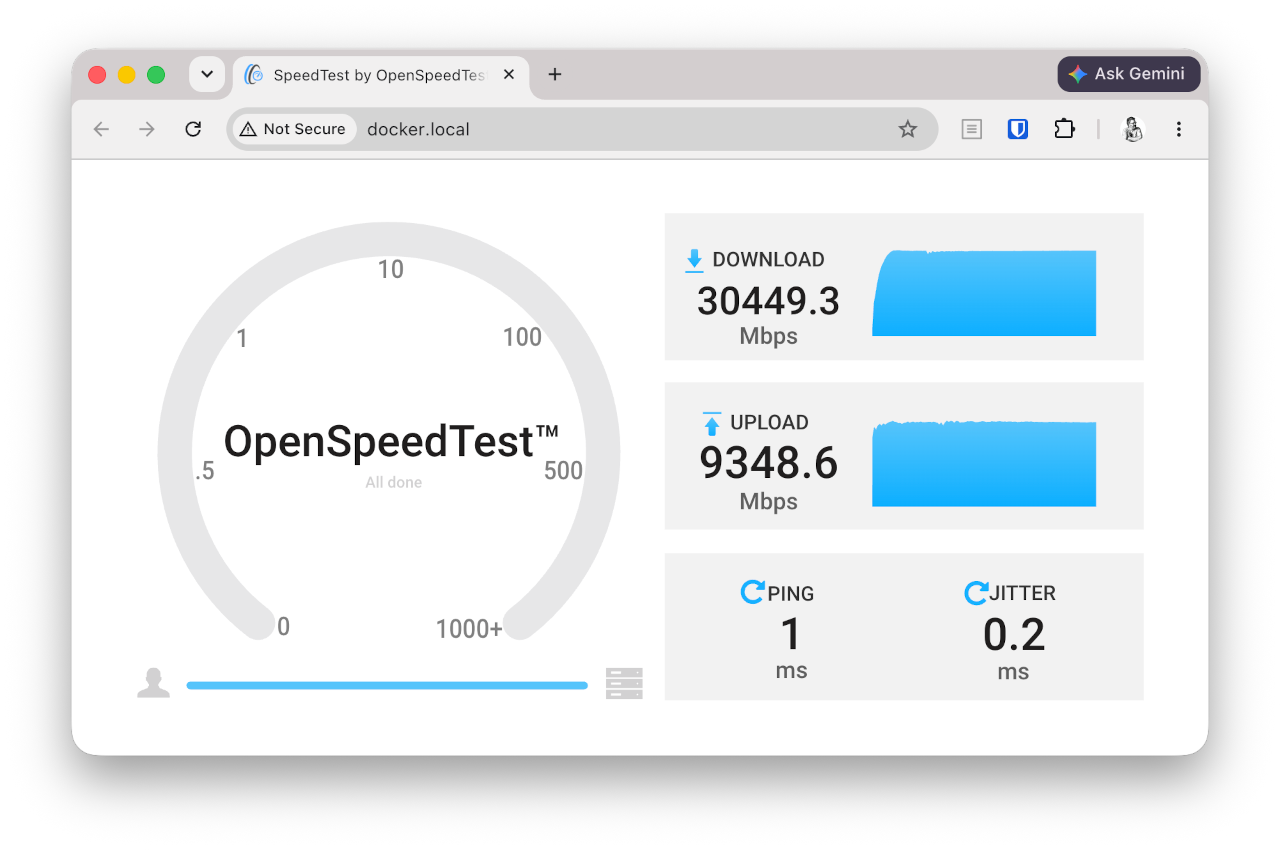
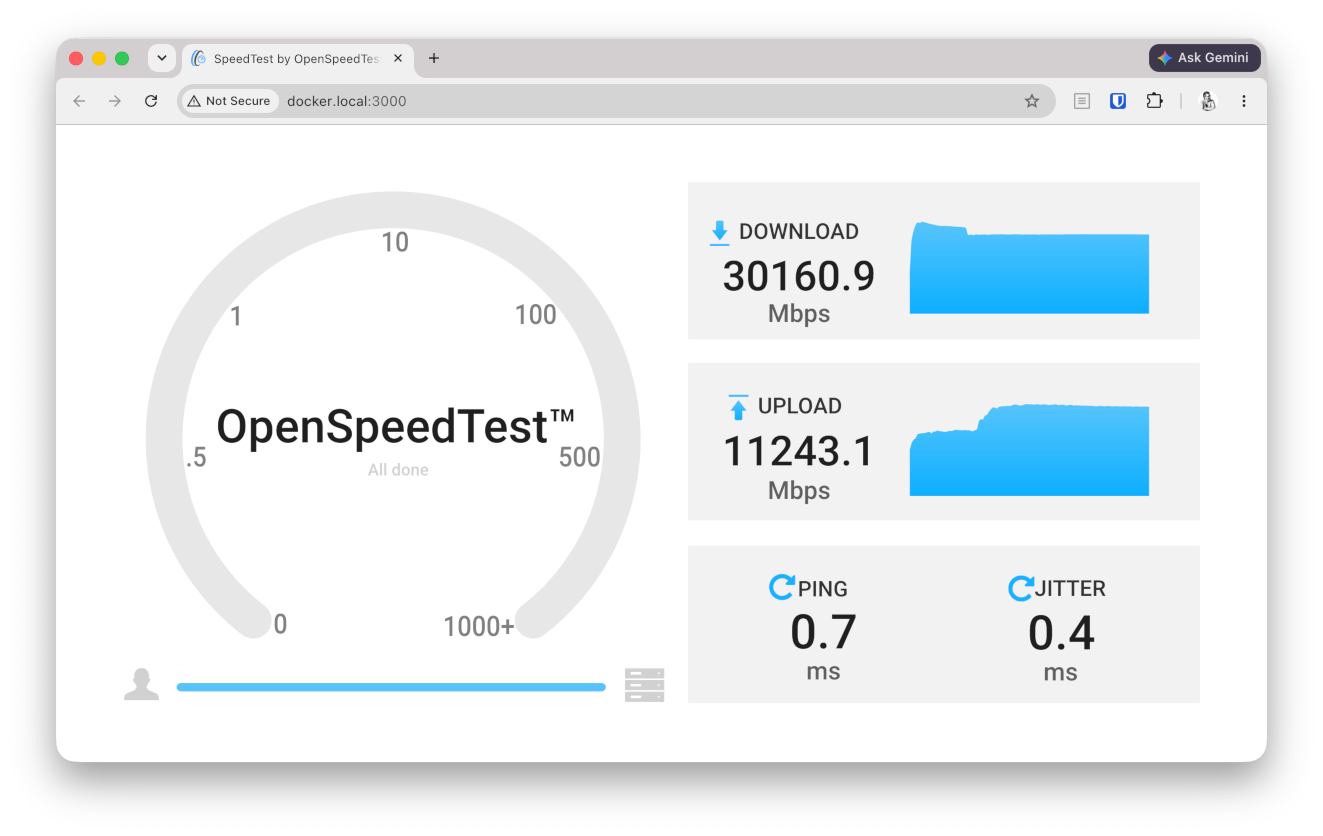
docker: Optimize networking and SSH
- Use host networking for the speedtest container to bypass the
  docker bridge/veth overhead.
- Add busy polling section (net.core.busy_poll/busy_read) to improve
  upload throughput by reducing softirq latency.
- Rename "Speeding up Docker commands" to "Optimizing SSH access".
- Move the speed test section after the optimizations, so users see
  results with all tuning applied.

diff --git a/docs/docker.md b/docs/docker.md
@@ -18,7 +18,7 @@ offloading and connected to vmnet via vmnet-helper. The VM is managed by launchd
 and gets its own IP address on the local network. The Docker CLI connects to the
 VM via SSH. You only need the Docker CLI on the host — no Docker Desktop and no
 root required. Networking is snappy — a browser speed test to a container shows
-30 Gbits/sec download with 1 ms ping.
+30 Gbits/sec download, 11 Gbits/sec upload, with sub-millisecond ping.
 
 ## Requirements
 
@@ -243,25 +243,19 @@ docker run --rm hello
 Hello from vmnet!
 ```
 
-Run an interactive app — it is reachable from your Mac browser at the VM's
-hostname, with no localhost port forwarding:
+## Optimizing networking
+
+Enable busy polling to reduce latency and improve throughput:
 
 ```console
-docker run -d --name speedtest -p 80:3000 openspeedtest/latest
-open http://docker.local
+ssh root@docker.local "cat > /etc/sysctl.d/90-busy-poll.conf << 'EOF'
+net.core.busy_poll = 50
+net.core.busy_read = 50
+EOF
+sysctl -p /etc/sysctl.d/90-busy-poll.conf"
 ```
 
-Click **Start** to run a network speed test from your browser to the container.
-
-<picture><img src="/media/speedtest.png" alt="OpenSpeedTest results at docker.local" width="933"></picture>
-
-When you're done, remove the container:
-
-```console
-docker rm -f speedtest
-```
-
-## Speeding up Docker commands
+## Optimizing SSH access
 
 Docker CLI opens a new SSH connection for every command. SSH multiplexing keeps
 the connection open between commands:
@@ -277,6 +271,26 @@ Host docker.local
 EOF
 
 echo "Include ~/vms/docker/ssh.config" >> ~/.ssh/config
+```
+
+## Speed test
+
+Run a speed test container — it is reachable from your Mac browser at the VM's
+hostname, with no localhost port forwarding:
+
+```console
+docker run -d --name speedtest --network host openspeedtest/latest
+open http://docker.local:3000
+```
+
+Click **Start** to run a network speed test from your browser to the container.
+
+<picture><img src="/media/speedtest.png" alt="OpenSpeedTest results at docker.local" width="933"></picture>
+
+When you're done, remove the container:
+
+```console
+docker rm -f speedtest
 ```
 
 ## Managing the VM
